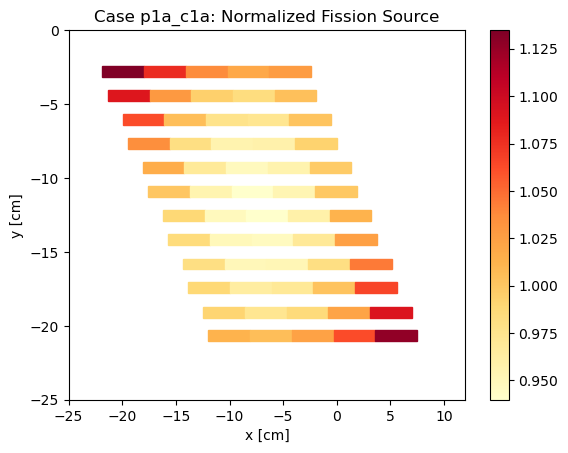
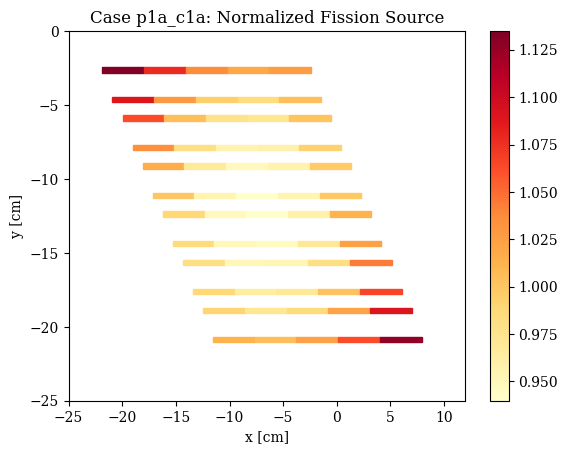
plots font update

diff --git a/docs/fhr-benchmark.tex b/docs/fhr-benchmark.tex
@@ -62,7 +62,7 @@ electric power \cite{varma_ahtr_2012}.
 \begin{figure}[]
     \centering
     \includegraphics[width=\linewidth]{reactor-schematic.png} 
-    \caption{\acrlong{AHTR} schematic (left) and vessel (right) reproduced from
+    \caption{\acrfull{AHTR} schematic (left) and vessel (right) reproduced from
     \cite{noauthor_fluoride_nodate}.}
     \label{fig:reactor-schematic}
 \end{figure}
@@ -96,12 +96,9 @@ Figure \ref{fig:ahtr-fuel-assembly} shows a detailed 2D view of the
                 \draw[ thick,-latex] (0,0) -- (1.3,1.3) node[anchor=south west] {$z$};
                \tkzText[above](-0.5,1){}
                \end{tikzpicture} 
-    \caption{\acrlong{AHTR} fuel assembly with 18 fuel plates arranged in 
+    \caption{\acrfull{AHTR} fuel assembly with 18 fuel plates arranged in 
     three diamond-shaped sectors, with a central Y-shaped and external channel 
-    graphite structure. Blue: FliBE coolant in between fuel assemblies and plates, 
-    and in the control rod slot, Gray: graphite structural components, 
-    Red: graphite fuel plank, Pink: graphite spacers, Green: graphite matrix 
-    with embedded TRISO particles.}
+    graphite structure.}
     \label{fig:ahtr-fuel-assembly}
 \end{figure}
 The hexagonal fuel assembly consists of eighteen fuel-containing graphite planks 
@@ -130,7 +127,7 @@ represented by periodic boundary conditions, as seen in Figure \ref{fig:bc}.
        \tkzText[above](-0.5,0){}
        \end{tikzpicture} 
     \caption{Visualization of periodic boundary conditions for a single fuel 
-    assembly in the \gls{AHTR}, reproduced from \cite{noauthor_fluoride_nodate}.}
+    assembly in the \acrfull{AHTR}, reproduced from \cite{noauthor_fluoride_nodate}.}
     \label{fig:bc}
 \end{figure}
 
@@ -155,8 +152,8 @@ Fuel stripes line the upper and lower sides of each graphite fuel plank.
                 \draw[ thick,-latex] (0,0) -- (1.3,1.3) node[anchor=south west] {$z$};
                \tkzText[above](-0.5,1){}
                \end{tikzpicture} 
-    \caption{\acrlong{AHTR}'s fuel plank, with the magnification of 
-    a spacer and segment of the fuel stripe with embedded TRISO particles.}
+    \caption{\acrfull{AHTR}'s fuel plank, with the magnification of 
+    a spacer and segment of the fuel stripe with embedded \gls{TRISO} particles.}
     \label{fig:ahtr-fuel-plank}
 \end{figure}
 Each fuel stripe contains a graphite matrix filled with a cubic lattice of 
@@ -205,10 +202,14 @@ displaces the \gls{FLiBe} that occupies the slot
 
 \section{Benchmark Phase I Specifications}
 \label{sec:phase1}
-The \gls{FHR} benchmark Phase I consists of two subphases.
-First, a steady-state 2D model (Phase I-A) and depletion of one \gls{FHR} fuel 
-assembly (Phase I-B).
-The benchmark required the following results for Phases I-A and I-B:
+The \gls{FHR} benchmark Phase I consists of three subphases.
+First, a steady-state 2D model (Phase I-A), depletion of one 2D \gls{FHR} fuel 
+assembly (Phase I-B), and depletion of one 3D \gls{FHR} fuel assembly 
+(Phase I-C).
+Benchmark organizers have only released Phase I-A and I-B's specifications, thus 
+Phase I-C's specifications will be omitted in this section.
+
+The benchmark requires the following results for Phases I-A and I-B:
 \begin{enumerate}[label=(\alph*)]
     \item $k_{eff}$ (effective multiplication factor)
     \item reactivity coefficients: $\beta_{eff}$, $\alpha_D$ (doppler coefficient), 
@@ -257,7 +258,7 @@ The uncertainty calculations for $FD_i$ and $f_{ave}$:
 OpenMC's \texttt{flux} score is normalized per source particle simulated, resulting 
 in [$\frac{neutrons\ cm}{src}$] units.
 This is an unnatural unit for system analysis, and thus to better compare OpenMC
-results with other codes in the benchmark, I converted flux to 
+results with other software results in the benchmark, I converted flux to 
 [$\frac{neutrons}{cm^2s}$] units using the following equations:  
 \begin{align}
     \Phi_c &= \frac{N \cdot \Phi_o}{V} \\
@@ -348,7 +349,7 @@ and that the depletion performs under the critical spectrum assumption.
 
 \section{Benchmark Phase I Results}
 Several organizations participated in the benchmark with various Monte Carlo
-and Deterministic neutronics codes, such as Serpent \cite{leppanen_serpent_2014}, 
+and Deterministic neutronics software, such as Serpent \cite{leppanen_serpent_2014}, 
 OpenMC \cite{romano_openmc_2013}, and WIMS \cite{lindley_current_2017}. 
 The \gls{UIUC} participated in the benchmark with the OpenMC Monte Carlo code 
 \cite{romano_openmc_2013} and the ENDF/B-VII.1 material library 
@@ -428,12 +429,11 @@ it has a higher enrichment.
 However, Case 6A deviated from expectations with a lower $k_{eff}$ despite an increase 
 in \acrlong{HM} loading. 
 This behavior is due to reduced moderation and worsened fuel 
-utilization brought about by self-shielding. 
-It also demonstrates that an increase in fuel packing fraction does not always 
-correspond with an increased $k_{eff}$. 
+utilization brought about by self-shielding, demonstrating that an increase in 
+fuel packing fraction does not always correspond with an increased $k_{eff}$. 
 
 \subsubsection{Results: Reactivity Coefficients (b)}
-$\beta_{eff}$ increased by 10-20[pcm] for Cases 4A, 4AR, 5A, and 6A compared to
+$\beta_{eff}$ increased by 10--20[pcm] for Cases 4A, 4AR, 5A, and 6A compared to
 reference Case 1A due to the introduction of control rods and poisons that 
 shift the average neutron velocity to higher values, resulting in decreased
 thermal fission and increased fast fission \cite{torabi_neutronic_2018}.
@@ -450,7 +450,7 @@ discretized by one-fifth fuel stripe.
     \centering
     \includegraphics[width=0.52\linewidth]{p1a_c1a_c.png} 
     \includegraphics[width=0.52\linewidth]{p1a_c3a_c.png} 
-    \includegraphics[width=0.52\linewidth]{p1a_6a_c.png} 
+    \includegraphics[width=0.52\linewidth]{p1a_c6a_c.png} 
     \caption{\acrlong{UIUC} results: Normalized Fission Source Distribution [-] 
     per one-fifth fuel stripe for \acrlong{FHR} Benchmark's Phase I-A Case 1A 
     (top), Case 3A (middle), and Case 6A (bottom).}
